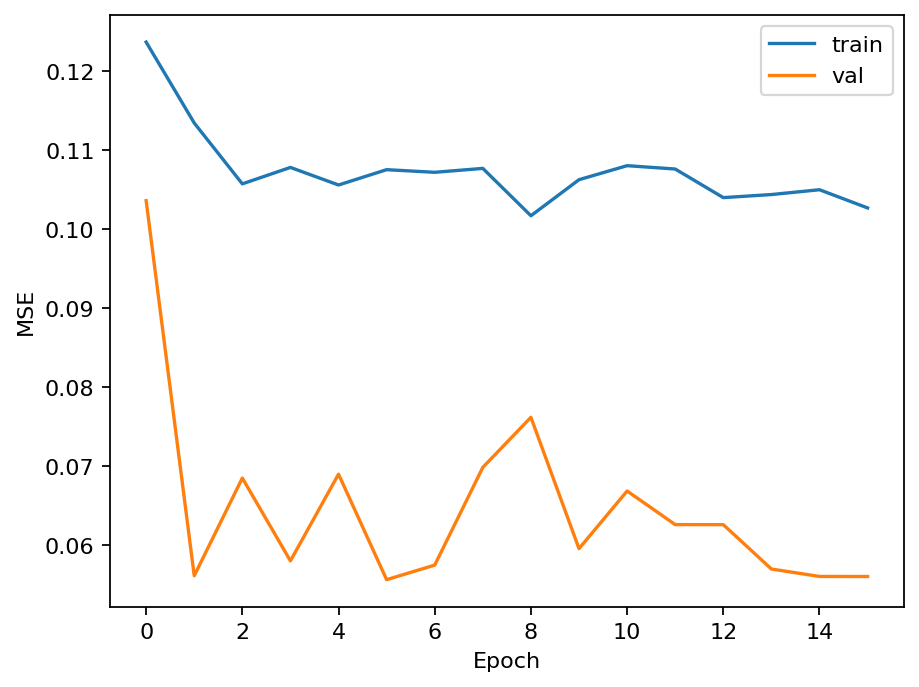
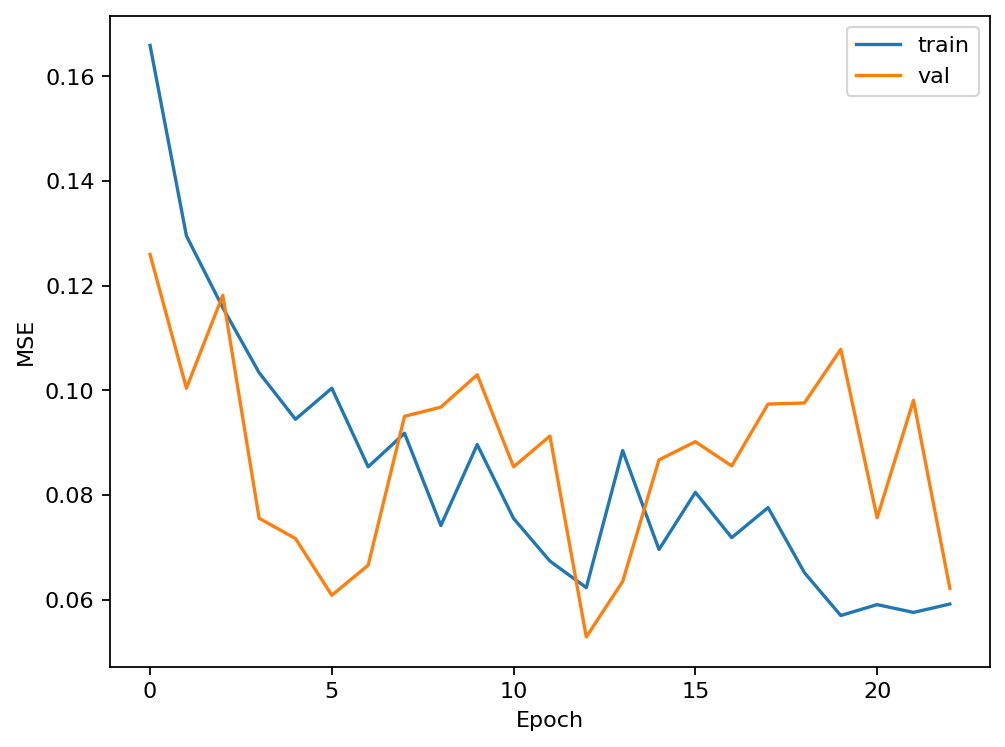
Improve model training: add features, tune learning rate, and update results plots

diff --git a/src/data.py b/src/data.py
@@ -1,44 +1,80 @@
-import pandas as pd
+# src/data.py
 import numpy as np
-from sklearn.preprocessing import StandardScaler
+import pandas as pd
 from fredapi import Fred
+from sklearn.preprocessing import StandardScaler
+
 from .config import API_KEY, SERIES, SELECTED_FEATURES
 from .utils import fetch_series_monthly, make_sequences
 
-def load_and_prepare_data(n_lags=36):
-    fred = Fred(api_key=API_KEY)
+def _pct(x): return x.pct_change() * 100
+def _yoy(x): return x.pct_change(12) * 100
+def _diff(x): return x.diff()
+def _logret(x): return np.log(x).diff() * 100
 
+def load_raw_from_fred():
+    fred = Fred(api_key=API_KEY)
     cols = {}
     for name, code in SERIES.items():
         how = "mean" if name in ["OilPrice"] else "last"
         cols[name] = fetch_series_monthly(fred, code, how=how)
+    return pd.DataFrame(cols).sort_index()
 
-    df = pd.DataFrame(cols).sort_index()
-    df["Inflation"] = df["CPI"].pct_change() * 100
-    df = df[SELECTED_FEATURES + ["Inflation"]].dropna()
+def load_dataset():
+    """Return (df, features) where df has engineered features + 'Inflation' target."""
+    raw = load_raw_from_fred()
 
+    # Target: MoM CPI % change
+    infl_mom = _pct(raw["CPI"])
+
+    # Engineered predictors
+    feat = pd.DataFrame(index=raw.index)
+    feat["Unemp_d"]      = _diff(raw["Unemployment"])
+    feat["Rate_d"]       = _diff(raw["InterestRate"])
+    feat["Oil_ret"]      = _logret(raw["OilPrice"])
+    feat["PPI_yoy"]      = _yoy(raw["PPI"])
+    feat["M2_yoy"]       = _yoy(raw["M2"])
+    feat["Retail_yoy"]   = _yoy(raw["RetailSales"])
+    feat["Employment_d"] = _diff(raw["Employment"])
+    feat["Housing_d"]    = _diff(raw["HousingStarts"])
+    feat["T10Y"]         = raw["Treasury10Y"]   # level
+    feat["Sentiment"]    = raw["Sentiment"]     # level
+
+    df = pd.concat([feat, infl_mom.rename("Inflation")], axis=1).dropna()
+    return df, SELECTED_FEATURES
+
+def load_and_prepare_data(n_lags=36):
+    """
+    Builds scaled sequences with chronological split.
+    Returns: X_train, y_train, X_val, y_val, X_test, y_test, df, scaler, y_test_sr
+    """
+    df, features = load_dataset()
+
+    # Chronological split
     n_total = len(df)
     train_end = int(n_total * 0.70)
     val_end   = int(n_total * 0.85)
 
-    feat_df = df[SELECTED_FEATURES]
-    targ_sr = df["Inflation"]
+    feat_df = df[features]
+    y_sr    = df["Inflation"]
 
     feat_train = feat_df.iloc[:train_end].copy()
     feat_val   = feat_df.iloc[train_end:val_end].copy()
     feat_test  = feat_df.iloc[val_end:].copy()
 
-    y_train_sr = targ_sr.iloc[:train_end].copy()
-    y_val_sr   = targ_sr.iloc[train_end:val_end].copy()
-    y_test_sr  = targ_sr.iloc[val_end:].copy()
+    y_train_sr = y_sr.iloc[:train_end].copy()
+    y_val_sr   = y_sr.iloc[train_end:val_end].copy()
+    y_test_sr  = y_sr.iloc[val_end:].copy()
 
-    scaler = StandardScaler()
-    feat_train_sc = scaler.fit_transform(feat_train)
-    feat_val_sc   = scaler.transform(feat_val)
-    feat_test_sc  = scaler.transform(feat_test)
+    # Scale on train only
+    scaler = StandardScaler().fit(feat_train.values)
+    X_train_sc = scaler.transform(feat_train.values)
+    X_val_sc   = scaler.transform(feat_val.values)
+    X_test_sc  = scaler.transform(feat_test.values)
 
-    X_train, y_train = make_sequences(feat_train_sc, y_train_sr.values, n_lags)
-    X_val,   y_val   = make_sequences(feat_val_sc,   y_val_sr.values,   n_lags)
-    X_test,  y_test  = make_sequences(feat_test_sc,  y_test_sr.values,  n_lags)
+    # Sequences for LSTM
+    X_train, y_train = make_sequences(X_train_sc, y_train_sr.values, n_lags)
+    X_val,   y_val   = make_sequences(X_val_sc,   y_val_sr.values,   n_lags)
+    X_test,  y_test  = make_sequences(X_test_sc,  y_test_sr.values,  n_lags)
 
-    return (X_train, y_train, X_val, y_val, X_test, y_test, df, scaler, y_test_sr)
+    return X_train, y_train, X_val, y_val, X_test, y_test, df, scaler, y_test_sr

diff --git a/src/visualize.py b/src/visualize.py
@@ -1,55 +1,64 @@
+# src/visualize.py
 import os
+import json
 import matplotlib.pyplot as plt
 import matplotlib.dates as mdates
 import pandas as pd
-from .data import load_and_prepare_data
-from .model import build_model, train_model
-from .config import N_LAGS, RESULTS_DIR
+from .config import RESULTS_DIR
 
-def plot_loss(history, fname="learning_curves.png"):
-    plt.figure()
-    plt.plot(history.history["loss"], label="train")
-    plt.plot(history.history["val_loss"], label="val")
-    plt.xlabel("Epoch"); plt.ylabel("MSE"); plt.legend()
-    out = (RESULTS_DIR / fname)
-    plt.savefig(out, dpi=160, bbox_inches="tight"); plt.close()
+# Ensure output dir exists
+os.makedirs(RESULTS_DIR, exist_ok=True)
+
+def plot_learning_curves(history, fname: str = "learning_curves.png"):
+    """
+    Save training/validation loss curves to results/.
+    """
+    fig, ax = plt.subplots()
+    ax.plot(history.history.get("loss", []), label="train")
+    ax.plot(history.history.get("val_loss", []), label="val")
+    ax.set_xlabel("Epoch")
+    ax.set_ylabel("MSE")
+    ax.legend()
+    fig.tight_layout()
+    out = RESULTS_DIR / fname
+    fig.savefig(out, dpi=160, bbox_inches="tight")
+    plt.close(fig)
     print(f"saved: {out}")
 
-def plot_predictions(model, X_test, y_test, y_test_sr, fname="preds_vs_actuals.png"):
+def plot_preds_vs_actuals(model, X_test, y_test, y_test_sr, fname: str = "preds_vs_actuals.png"):
+    """
+    Predict on X_test and plot predictions vs actuals, aligned to the test timestamps.
+    y_test_sr should be the unsequenced test target Series (with a DateTimeIndex).
+    """
     preds = model.predict(X_test, verbose=0).ravel()
 
-    # Align timestamps to the sequence-reduced arrays
-    # (robust: compute offset instead of assuming N_LAGS)
+    # Align timestamps (sequences shorten y by N_LAGS, so compute offset generically)
     offset = len(y_test_sr) - len(y_test)
     idx = pd.to_datetime(y_test_sr.index)[offset:]  # same length as y_test/preds
 
     fig, ax = plt.subplots()
     ax.plot(idx, y_test, label="actual")
     ax.plot(idx, preds, label="predicted")
-    ax.set_xlabel("Date"); ax.set_ylabel("Inflation (pp)")
+    ax.set_xlabel("Date")
+    ax.set_ylabel("Inflation (pp)")
     ax.legend()
 
-    # Make the x-axis readable
-    ax.xaxis.set_major_locator(mdates.MonthLocator(interval=3))   # every 3 months
+    # Make x-axis readable (quarterly ticks)
+    ax.xaxis.set_major_locator(mdates.MonthLocator(interval=3))
     ax.xaxis.set_major_formatter(mdates.DateFormatter("%Y-%m"))
     fig.autofmt_xdate()
     fig.tight_layout()
 
-    out = (RESULTS_DIR / fname)
+    out = RESULTS_DIR / fname
     fig.savefig(out, dpi=160, bbox_inches="tight")
     plt.close(fig)
     print(f"saved: {out}")
 
-
-if __name__ == "__main__":
-    # load data
-    X_train, y_train, X_val, y_val, X_test, y_test, df, scaler, y_test_sr = load_and_prepare_data(N_LAGS)
-    # build + train (train_model should return (history, loss, mae))
-    model = build_model(N_LAGS, len(df.columns) - 1)
-    history, loss, mae = train_model(model, X_train, y_train, X_val, y_val, X_test, y_test, scaler)
-
-    # plots
-    plot_loss(history, "learning_curves.png")
-    plot_predictions(model, X_test, y_test, y_test_sr, "preds_vs_actuals.png")
-
-
+def save_metrics_json(metrics: dict, fname: str = "metrics.json"):
+    """
+    Save a metrics dictionary as JSON under results/.
+    """
+    out = RESULTS_DIR / fname
+    with open(out, "w", encoding="utf-8") as f:
+        json.dump(metrics, f, indent=2)
+    print(f"saved: {out}")

diff --git a/src/train.py b/src/train.py
@@ -1,57 +1,29 @@
 # src/train.py
-
-import os
-import joblib
+import os, joblib
 from .data import load_and_prepare_data
 from .model import build_model, train_model
 from .config import N_LAGS, RESULTS_DIR, SAVED_MODELS_DIR
 from .visualize import plot_learning_curves, plot_preds_vs_actuals, save_metrics_json
 
-# -------------------------------------------------------------------
-# 1. Load & prepare data
-# -------------------------------------------------------------------
+# 1) data
 X_train, y_train, X_val, y_val, X_test, y_test, df, scaler, y_test_sr = load_and_prepare_data(N_LAGS)
 
-# -------------------------------------------------------------------
-# 2. Build model
-# -------------------------------------------------------------------
+# 2) model
 model = build_model(N_LAGS, len(df.columns) - 1)
 
-# -------------------------------------------------------------------
-# 3. Train model (train_model now returns history + test metrics)
-# -------------------------------------------------------------------
-history, loss, mae = train_model(
-    model, X_train, y_train, X_val, y_val, X_test, y_test, scaler
-)
+# 3) train
+history, loss, mae = train_model(model, X_train, y_train, X_val, y_val, X_test, y_test, scaler)
 
-# -------------------------------------------------------------------
-# 4. Ensure output dirs
-# -------------------------------------------------------------------
+# 4) save
 os.makedirs(SAVED_MODELS_DIR, exist_ok=True)
 os.makedirs(RESULTS_DIR, exist_ok=True)
+model.save(SAVED_MODELS_DIR / "inflation_model.keras")
+joblib.dump(scaler, SAVED_MODELS_DIR / "scaler.pkl")
 
-# -------------------------------------------------------------------
-# 5. Save model + scaler
-# -------------------------------------------------------------------
-model.save(os.path.join(SAVED_MODELS_DIR, "inflation_model.keras"))
-joblib.dump(scaler, os.path.join(SAVED_MODELS_DIR, "scaler.pkl"))
-
-# -------------------------------------------------------------------
-# 6. Visualizations
-# -------------------------------------------------------------------
-# Learning curves
+# 5) visuals
 plot_learning_curves(history, "learning_curves.png")
+plot_preds_vs_actuals(model, X_test, y_test, y_test_sr, "preds_vs_actuals.png")
+save_metrics_json({"final_test_mae": float(mae), "final_test_mse": float(loss), "n_lags": int(N_LAGS)})
 
-# Predictions vs Actuals (align with test index if available)
-y_pred_test = model.predict(X_test, verbose=0).ravel()
-test_index = y_test_sr.index if y_test_sr is not None else range(len(y_test))
-plot_preds_vs_actuals(y_test, y_pred_test, index=test_index, fname="preds_vs_actuals.png")
-
-# -------------------------------------------------------------------
-# 7. Save metrics
-# -------------------------------------------------------------------
-save_metrics_json({
-    "final_test_mae": float(mae),
-    "final_test_mse": float(loss),
-    "n_lags": int(N_LAGS),
-})
+# 6) metrics
+save_metrics_json({"final_test_mae": float(mae), "final_test_mse": float(loss), "n_lags": int(N_LAGS)})

diff --git a/src/config.py b/src/config.py
@@ -1,3 +1,4 @@
+# src/config.py
 import os
 from pathlib import Path
 
@@ -5,8 +6,21 @@ from pathlib import Path
 N_LAGS = 36
 TRAIN = True
 
-# Features & FRED series
-SELECTED_FEATURES = ["CPI", "Unemployment", "InterestRate", "OilPrice", "PPI"]
+# Engineered features we'll create in data.py
+SELECTED_FEATURES = [
+    "Unemp_d",       # Δ Unemployment
+    "Rate_d",        # Δ Fed funds
+    "Oil_ret",       # log return of WTI (%)
+    "PPI_yoy",       # YoY PPI (%)
+    "M2_yoy",        # YoY M2 (%)
+    "Retail_yoy",    # YoY retail sales (%)
+    "Employment_d",  # Δ nonfarm payrolls
+    "Housing_d",     # Δ housing starts
+    "T10Y",          # 10Y UST level
+    "Sentiment"      # UMich level
+]
+
+# Raw FRED series (we'll transform them)
 SERIES = {
     "CPI": "CPIAUCNS",
     "Unemployment": "UNRATE",
@@ -18,17 +32,15 @@ SERIES = {
     "RetailSales": "RSXFS",
     "Sentiment": "UMCSENT",
     "Employment": "PAYEMS",
-    "HousingStarts": "HOUST",
+    "HousingStarts": "HOUST"
 }
 
-# API key (read from env; do NOT hardcode)
+# API key (set in your shell: $env:FRED_API_KEY="..."; or export FRED_API_KEY=...)
 API_KEY = os.getenv("FRED_API_KEY", "")
 
-# Project paths (root = repo/)
+# Paths
 ROOT = Path(__file__).resolve().parent.parent
 SAVED_MODELS_DIR = ROOT / "saved_models"
 RESULTS_DIR = ROOT / "results"
-
-# Ensure folders exist at import time
 SAVED_MODELS_DIR.mkdir(parents=True, exist_ok=True)
 RESULTS_DIR.mkdir(parents=True, exist_ok=True)

diff --git a/src/model.py b/src/model.py
@@ -1,16 +1,18 @@
-from tensorflow.keras.callbacks import EarlyStopping
-from tensorflow.keras.optimizers import Adam
+# src/model.py
 from tensorflow.keras.models import Sequential
 from tensorflow.keras.layers import LSTM, Dense
+from tensorflow.keras.callbacks import EarlyStopping
+from tensorflow.keras.optimizers import Adam
 
 def build_model(n_lags, n_features):
-    m = Sequential([
+    model = Sequential([
         LSTM(32, dropout=0.2, input_shape=(n_lags, n_features)),
         Dense(16, activation='relu'),
         Dense(1)
     ])
-    m.compile(optimizer=Adam(learning_rate=0.003), loss='mse', metrics=['mae'])
-    return m
+    # ↑ Underfitting → small LR bump
+    model.compile(optimizer=Adam(learning_rate=0.0045), loss='mse', metrics=['mae'])
+    return model
 
 def train_model(model, X_train, y_train, X_val, y_val, X_test, y_test, scaler):
     early = EarlyStopping(monitor='val_loss', patience=10, restore_best_weights=True)

diff --git a/src/forecast.py b/src/forecast.py
@@ -1,3 +1,4 @@
+# src/forecast.py
 import joblib
 from tensorflow.keras.models import load_model
 from .data_prep import load_and_prepare_data

diff --git a/src/utils.py b/src/utils.py
@@ -1,3 +1,4 @@
+# src/utils.py
 import numpy as np
 import pandas as pd
 from fredapi import Fred
